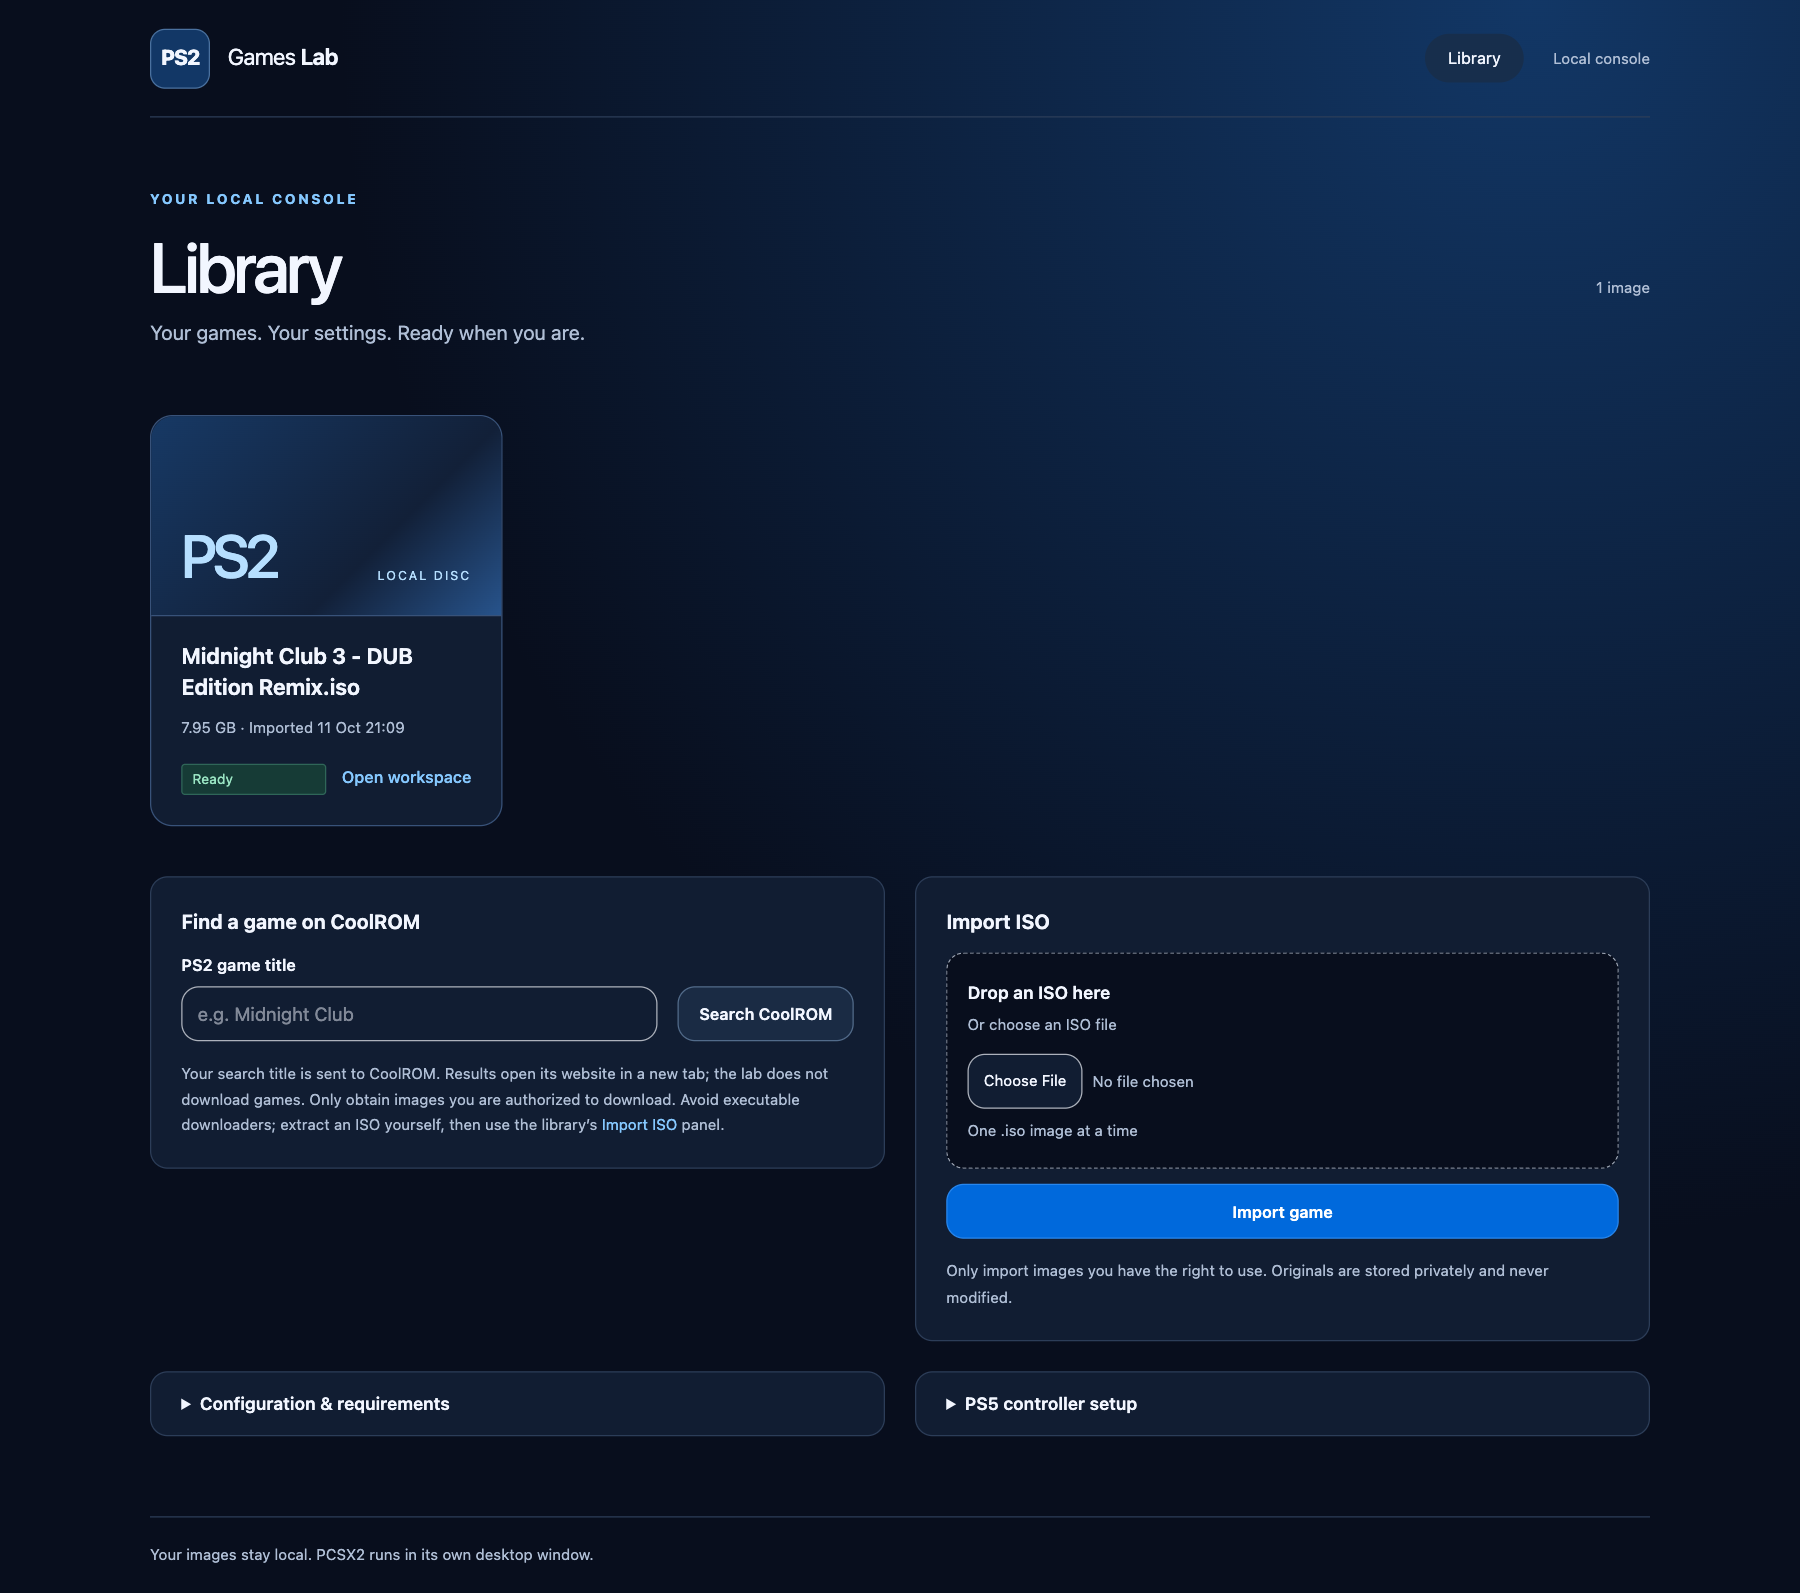
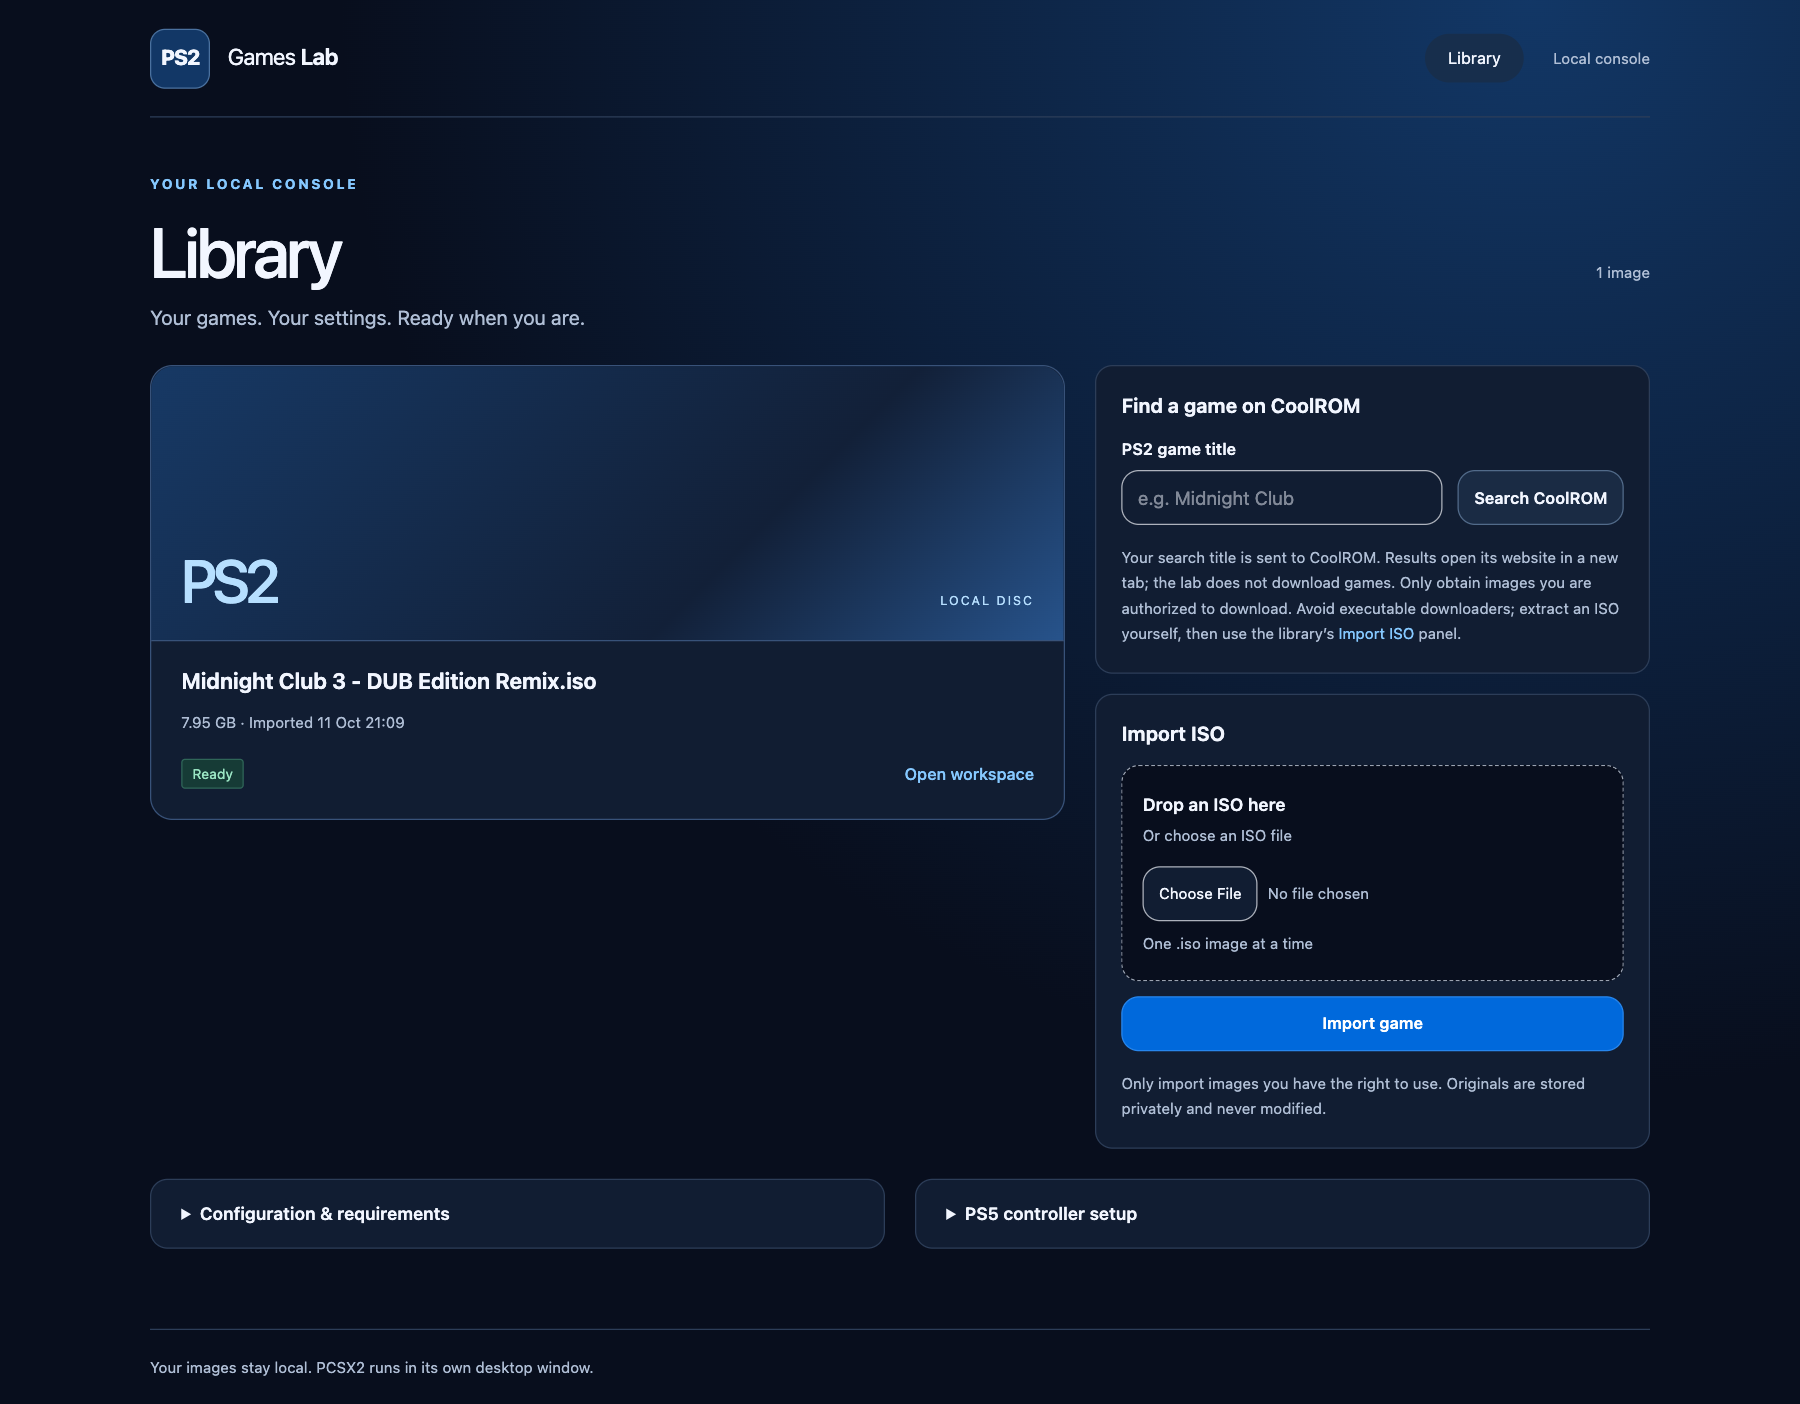
Balance landing page library and import proportions

diff --git a/app/assets/stylesheets/application.css b/app/assets/stylesheets/application.css
@@ -68,12 +68,19 @@ code { font-family: ui-monospace, SFMono-Regular, monospace; font-size: .85em; o
 .skip-link:focus { top: 10px; }
 
 .library-layout, .game-layout, .library-tools, .workspace-details { display: grid; gap: 24px; min-width: 0; }
-.library-tools { grid-template-columns: repeat(2, minmax(0, 1fr)); }
+.library-layout { grid-template-columns: minmax(0, 1.65fr) minmax(360px, 1fr); align-items: start; }
+.library-hero, .library-support { grid-column: 1 / -1; }
+.library-tools { grid-template-columns: minmax(0, 1fr); gap: 16px; }
+.library-tools .panel { padding: 20px; }
+.library-tools .game-search-form { display: grid; grid-template-columns: minmax(0, 1fr) auto; gap: 12px; }
+.library-tools .game-search-form input[type="submit"] { padding-inline: 12px; }
+.library-support { display: grid; grid-template-columns: repeat(2, minmax(0, 1fr)); gap: 24px; align-items: start; }
+.library-support > details { padding-block: 16px; }
 .console-mark { display: inline-grid; place-items: center; width: 48px; height: 48px; border: 1px solid #4a719f; border-radius: 12px; background: #123766; font-size: 17px; font-weight: 800; letter-spacing: -.05em; }
 .eyebrow { margin-bottom: 14px; color: var(--accent); font-size: 11px; font-weight: 700; letter-spacing: .18em; text-transform: uppercase; }
-.library-hero { padding: 12px 0 28px; }
-.library-hero .section-description { font-size: 16px; max-width: 50ch; }
-.game-art { display: flex; align-items: end; justify-content: space-between; min-height: 160px; padding: 24px; margin: -24px -24px 0; border-bottom: 1px solid #385279; border-radius: 18px 18px 0 0; background: linear-gradient(135deg, #173965, #122038 65%, #27538b); color: #b6dfff; }
+.library-hero { padding: 0; }
+.library-hero .section-description { font-size: 16px; max-width: 50ch; margin-bottom: 0; }
+.game-art { display: flex; align-items: end; justify-content: space-between; width: calc(100% + 48px); aspect-ratio: 16 / 6; min-height: 120px; max-height: 220px; padding: 24px; margin: -24px -24px 0; border-bottom: 1px solid #385279; border-radius: 18px 18px 0 0; background: linear-gradient(135deg, #173965, #122038 65%, #27538b); color: #b6dfff; }
 .game-art strong { font-size: 48px; line-height: 1; font-weight: 500; letter-spacing: -.07em; }
 .game-art span { font-size: 10px; letter-spacing: .15em; }
 .library-section { min-width: 0; }
@@ -116,7 +123,7 @@ details > summary { cursor: pointer; font-size: 14px; font-weight: 600; }
 .empty-state { padding: 24px 0; border-top: 1px solid var(--line); border-bottom: 1px solid var(--line); }
 .empty-state h2 { margin-bottom: 8px; }
 .empty-state p { margin-bottom: 0; color: var(--muted); font-size: 14px; }
-.game-list { display: grid; grid-template-columns: repeat(auto-fill, minmax(260px, 1fr)); gap: 24px; margin-bottom: 16px; }
+.game-list { display: grid; grid-template-columns: repeat(auto-fit, minmax(min(260px, 100%), 1fr)); gap: 24px; }
 .game-row { display: grid; grid-template-columns: minmax(0, 1fr) auto; gap: 20px 12px; padding: 24px; border: 1px solid #385279; border-radius: 18px; background: #111d32; transition: border-color .15s, transform .15s; }
 .game-row:hover, .game-row:focus-within { border-color: var(--accent); transform: translateY(-3px); }
 .game-art, .game-summary { grid-column: 1 / -1; min-width: 0; }
@@ -124,7 +131,8 @@ details > summary { cursor: pointer; font-size: 14px; font-weight: 600; }
 .game-summary h2 a { color: var(--ink); text-decoration: none; }
 .game-summary h2 a:hover { color: var(--accent); }
 .game-summary p { margin: 0; color: var(--muted); font-size: 12px; }
-.game-row > .text-link { justify-self: end; }
+.game-row > .status { justify-self: start; align-self: center; }
+.game-row > .text-link { justify-self: end; align-self: center; }
 .status { display: inline-flex; align-items: center; padding: 2px 8px; border: 1px solid var(--line); border-radius: 3px; background: var(--accent-wash); color: var(--accent); font-size: 11px; line-height: 1.7; white-space: nowrap; }
 .status-ready { color: var(--success); background: #163b36; border-color: #2f6658; }
 .status-failed { color: var(--error); background: #3c202e; border-color: #734054; }
@@ -204,7 +212,8 @@ textarea:disabled { background: var(--canvas); color: var(--muted); }
 
 
 @media (prefers-reduced-motion: reduce) { .game-row { transition: none; } .game-row:hover, .game-row:focus-within { transform: none; } }
-@media (max-width: 800px) { .library-tools { grid-template-columns: minmax(0, 1fr); } }
+@media (max-width: 1000px) { .library-layout { grid-template-columns: minmax(0, 1fr); } .library-tools { grid-template-columns: repeat(2, minmax(0, 1fr)); } .library-tools .game-search-form { grid-template-columns: minmax(0, 1fr); } }
+@media (max-width: 700px) { .library-tools, .library-support { grid-template-columns: minmax(0, 1fr); } }
 @media (max-width: 600px) {
   .site-header, .workspace, .site-footer { width: calc(100% - 32px); }
   .site-header { min-height: 64px; gap: 12px; }

diff --git a/README.md b/README.md
@@ -8,7 +8,7 @@ A local Rails workspace for importing PS2 disc images, tuning per-game PCSX2 pla
 
 ## Interface
 
-The PlayStation-inspired library presents imported games as a responsive tile grid, with search and import tools below. Each game opens a dedicated hub with a prominent launch action and per-game settings. The optional AI assistant, configuration requirements, original-image metadata, and controller guide expand only when needed.
+The PlayStation-inspired landing page uses a shared heading and a proportional desktop grid: the library occupies about five-eighths of the content width, with compact search/import panels stacked beside it. Game artwork has bounded height, tiles adapt to the available library width, and configuration/controller guides sit in a separate supporting row. Tablet layouts put search and import beneath the library; mobile stacks all panels. Each game opens a dedicated hub with a prominent launch action, per-game settings, and optional expandable AI.
 
 The interface uses a dark navy canvas, electric-blue actions, soft blue lighting, rounded panels, and large sans-serif headings. Disc tiles use original abstract artwork rather than downloaded covers or official logos. This is an independent local lab, not an official PlayStation interface. Controls stack on narrow screens; keyboard focus stays visible and reduced-motion preferences are respected. Pages use normal document scrolling. Existing SSE delivery, composer drafts, provider/model selection, and tuning persistence are unchanged.
 
@@ -18,7 +18,7 @@ These running-application captures show the console-style library and the game h
 
 ### Import and library
 
-![PlayStation-inspired dark library with local disc tiles, title search, and ISO import](docs/images/library.png)
+![Proportional console library with compact stacked search and import panels](docs/images/library.png)
 
 ### Game hub and settings
 

diff --git a/CHANGELOG.md b/CHANGELOG.md
@@ -2,6 +2,7 @@
 
 ## 2026-10-12
 
+- Rebalanced landing-page proportions: shared heading, wider adaptive library, compact stacked search/import column, bounded disc artwork, and a separate setup-guide row. Verified desktop/tablet/mobile layouts, live CoolROM search with preserved file selection, invalid-ISO drop handling, and no confirmed WCAG A/AA audit violations. Refreshed the library screenshot.
 - Redesigned the library and game hub with a PlayStation-inspired navy/blue console layout, responsive local-disc tiles, large headings, rounded panels, and a prominent launch action. Preserved settings, import/search, optional AI, and draft behavior; verified desktop/mobile interactions and accessibility audits without confirmed WCAG A/AA violations. Refreshed screenshots.
 
 - Added validated per-game PCSX2 2.8.2 resolution, renderer, texture filtering, audio synchronization, and frame-limiter settings. Save, reset-to-inherit, and save-and-launch work without AI credentials or ISO modifications; launch failures retain saved settings.
